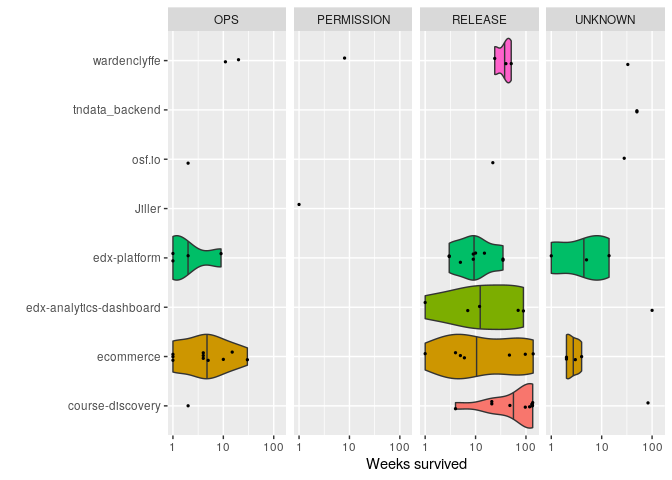
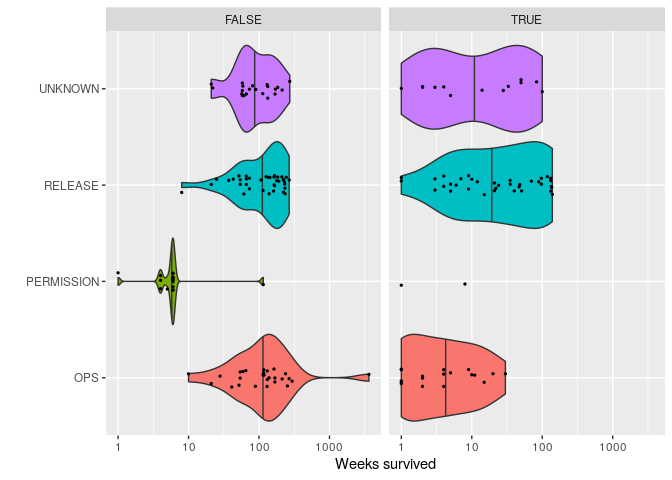
Re-organize categories plots

diff --git a/extraction/R/categories.md b/extraction/R/categories.md
@@ -1,7 +1,9 @@
-Survival of toggles by categories
+Survival of toggles and their categories
 ================
 
-### Toggles survival per project
+## Toggles survival per project
+
+How many weeks the removed and living toggles have survived?
 
 ``` r
 data %>%
@@ -20,7 +22,26 @@ data %>%
 
 ![](categories_files/figure-gfm/unnamed-chunk-1-1.png)<!-- -->
 
-### Survival time of removed toggles per category
+## Aggregated survival by categories of toggles
+
+How do categories of removed and living toggles compare?
+
+``` r
+data %>%
+  ggplot( aes(x=category, y=weeks_survived, fill=category) ) +
+    geom_violin(scale = "width", draw_quantiles = c(0.5)) +
+    geom_jitter(height = 0, width = 0.1, size = 0.5) +
+    coord_flip() +
+    scale_y_log10() +
+    facet_grid(cols = vars(all_routers_removed)) +
+    theme(legend.position = "none") +
+    xlab("") +
+    ylab("Weeks survived")
+```
+
+![](categories_files/figure-gfm/unnamed-chunk-2-1.png)<!-- -->
+
+## Survival time of removed toggles per category
 
 Useful to compare toggles lifetimes. For example, is a toggle living
 longer than the other of the same category in a project?
@@ -34,25 +55,6 @@ data %>%
     coord_flip() +
     scale_y_log10() +
     facet_grid(cols = vars(category)) +
-    theme(legend.position = "none") +
-    xlab("") +
-    ylab("Weeks survived")
-```
-
-![](categories_files/figure-gfm/unnamed-chunk-2-1.png)<!-- -->
-
-# Categories of toggles and their removal
-
-How do categories compare? Whether toggles are removed or not.
-
-``` r
-data %>%
-  ggplot( aes(x=category, y=weeks_survived, fill=category) ) +
-    geom_violin(scale = "width", draw_quantiles = c(0.5)) +
-    geom_jitter(height = 0, width = 0.1, size = 0.5) +
-    coord_flip() +
-    scale_y_log10() +
-    facet_grid(rows = vars(all_routers_removed)) +
     theme(legend.position = "none") +
     xlab("") +
     ylab("Weeks survived")
